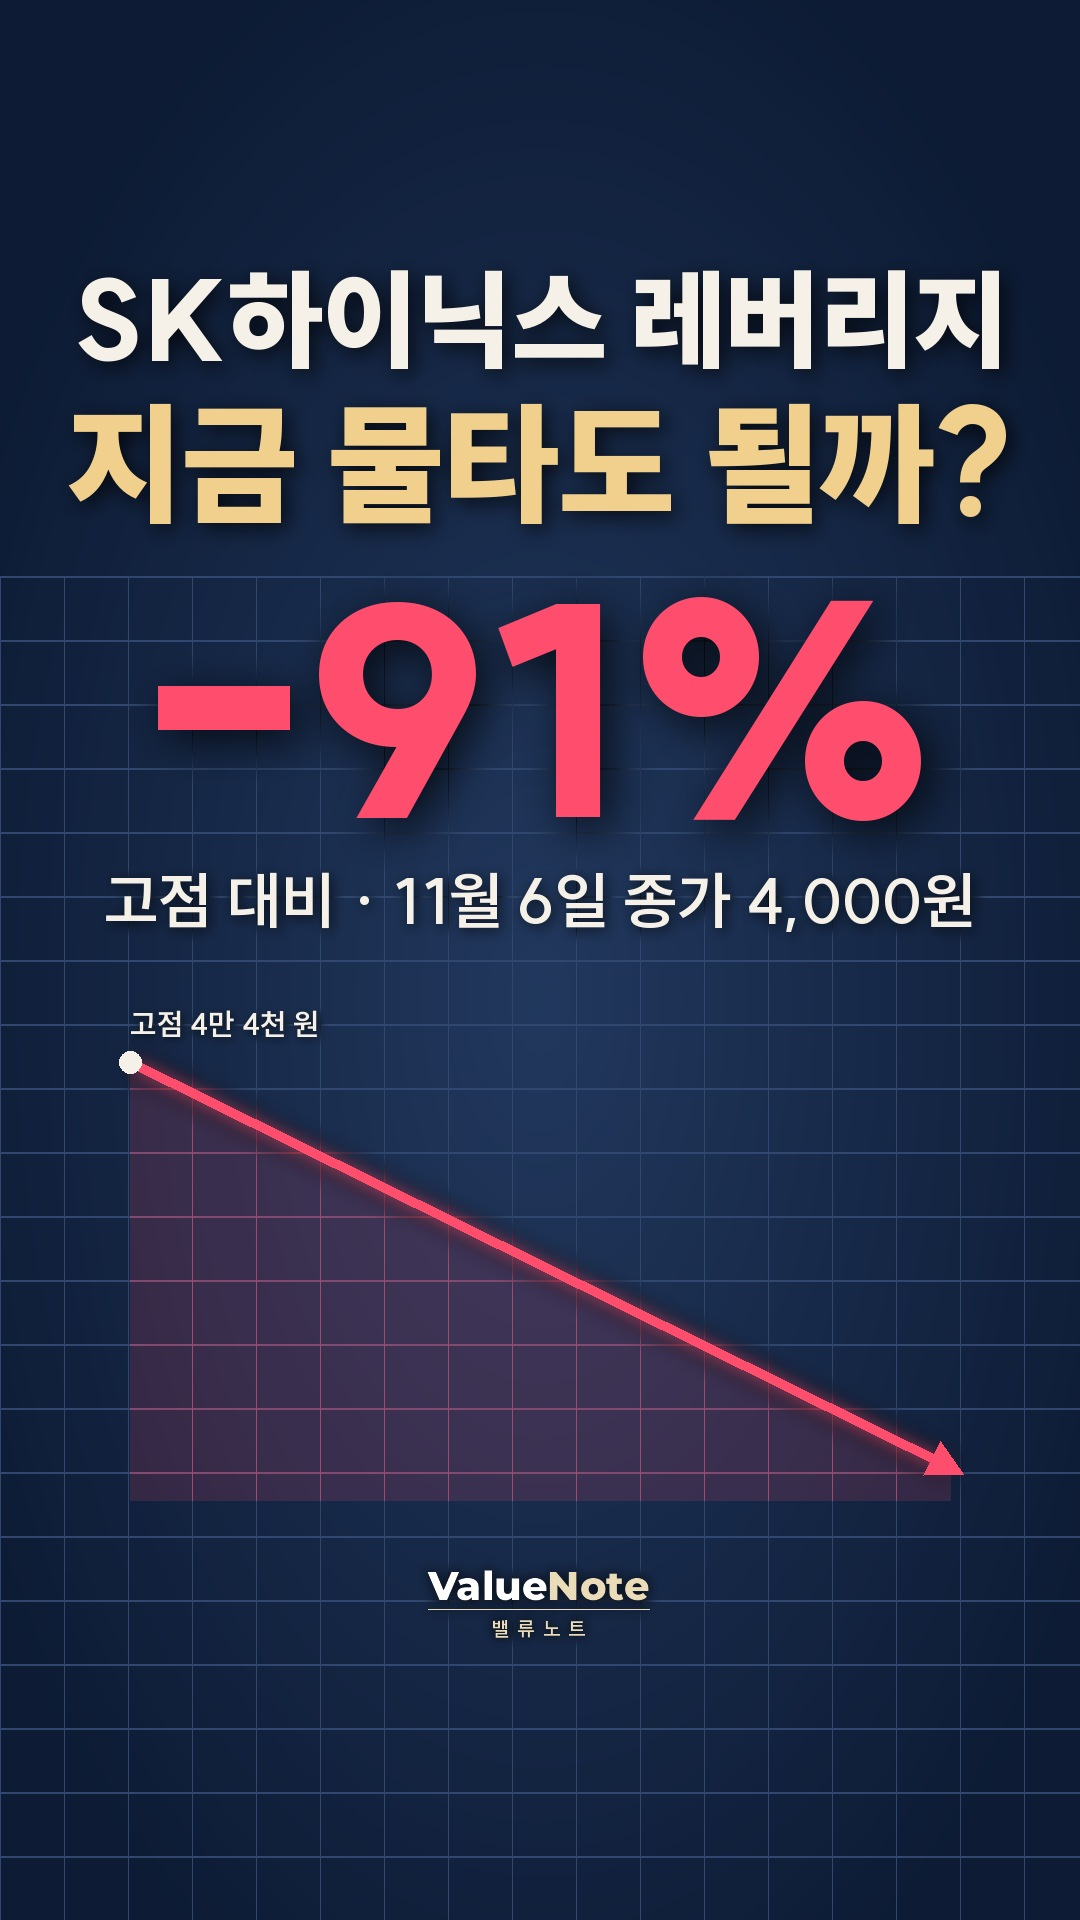
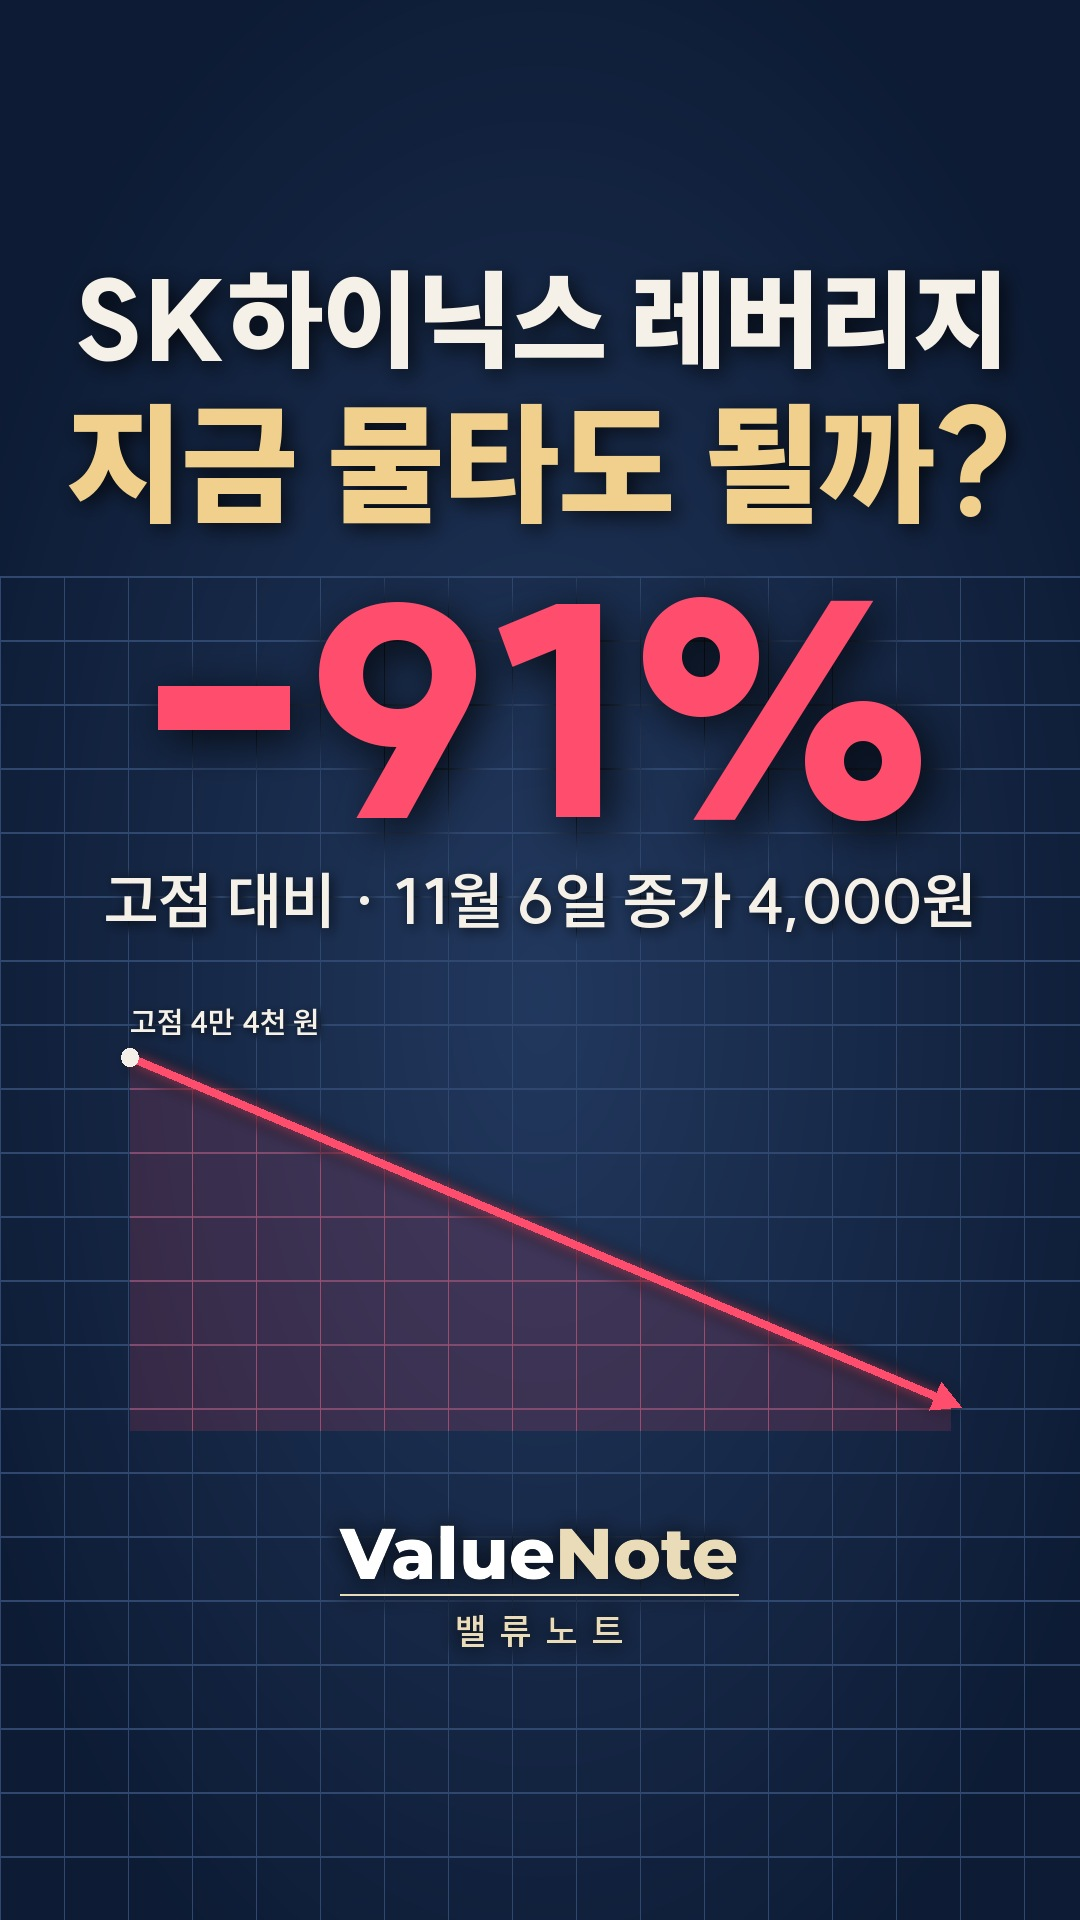
쇼츠·릴스 표지 표준 저장(제1 원칙 115): layout shorts_big — 큰 2줄 제목·중간 큰 숫자·하단 가운데 큰 로고·공용 여백
Claude-Session: https://claude.ai/code/session_01KaYReKze9wYAYny8qtqRPL

Changed region(s): [[0.1222, 0.5312, 0.8861, 0.875]]

diff --git a/scripts/reels/thumb_simple.py b/scripts/reels/thumb_simple.py
@@ -414,6 +414,8 @@ def render_v3(spec, out):
     """2026-10-29 운영자: 삼성전자 썸네일 톤 + 은은한 배경 사진(머니스웨거 느낌) + 한눈에 주제를 알려 주는 포인트 하나.
     네이비 빛·옅은 격자, 위 제목(아이보리 + 골드), 포인트(로고 PNG 또는 emblem), 빛나는 그래프, 아래 라벨 + 큰 숫자, 작은 밸류노트 로고."""
     from brand import paste_logo
+    if spec.get("layout") == "shorts_big":   # 2026-11-08 대표님 확정 표준(제1 원칙 115): 쇼츠·릴스 공용 — 삼성전자 틀에 위 2줄 제목 최대, 큰 숫자 중간, 하락선, ValueNote 로고 하단 가운데 크게. 인스타 격자(세로 240~1680)·좌우 60 안에 전부 들어온다
+        spec = {**{"header_big": True, "big_center": True, "header_y": 320, "header_w": 950, "big_size": 290, "chart_bottom": 1430, "logo_y": 1525, "logo_size": 72}, **spec}
     tone = spec.get("tone", "down"); ig = spec.get("safe") == "ig"; foc = tuple(spec.get("focus", (.5, .5)))
     em = spec.get("emblem")
     if spec.get("format", "short") == "short":

diff --git a/scripts/reels/README.md b/scripts/reels/README.md
@@ -400,6 +400,14 @@ python3 scripts/reels/engine.py scripts/reels/specs/F03.json out/F03 cover      
 - 칸·표 안에 쓰는 글씨는 칸마다 따로(가운데 정렬) 쓴다. 한 줄 문자열을 공백으로 맞추지 않는다.
 
 ## 썸네일 표준 (2026-10-28 운영자 확정)
+
+**★ 2026-11-08 대표님 확정 — 쇼츠·릴스 표지 표준 (제1 원칙 115, 이 아래 옛 기준보다 우선):** `scripts/reels/thumbs/<id>.json` 에 `"layout": "shorts_big"` 을 쓴다 (틀: `thumbs/_TEMPLATE_shorts_big.json`, 첫 사례: Y261109b).
+- 삼성전자 「이 3가지만」 틀 그대로: 네이비 바탕, 사진 없이 옅은 격자만, 3줄 노란 외곽선 제목은 쓰지 않는다.
+- 위 제목은 핵심만 2줄(윗줄 아이보리·아랫줄 골드), 화면 폭에 가득 차게 최대한 크게.
+- 큰 숫자(-91% 등)는 화면 중간, 그 아래 기준 문구 한 줄, 그 아래 주가선. 숫자는 폭의 약 3분의 2~4분의 3 크기(폭 가득 키우지 않는다).
+- ValueNote 로고는 화면 하단 가운데에 크게 (위쪽에 두지 않는다).
+- 쇼츠·릴스 공용 여백: 모든 요소가 세로 240~1680, 좌우 60 안에 들어온다 (인스타 격자 3:4 잘림 대비).
+- 주가선은 실제 데이터 점만 잇는다. 로고 PNG가 있는 회사는 제목 아래 로고 추가 가능.
 조회수가 터진 「삼성전자 주가 전망, 이 3가지만 보면 된다」 쇼츠 썸네일이 기준이다. 쇼츠·릴스·롱폼 모두 같은 틀.
 - 요소는 4개만: 2줄 제목(아이보리 + 골드) · 가운데 이름 한 단어 · 그림 하나(주가선 또는 막대 2개) · 큰 숫자 하나(하락 핑크레드, 상승 그린)
 - 사진·손글씨·노트 배경·설명 문구는 넣지 않는다. 첫 장면을 썸네일로 쓰지 않는다.
